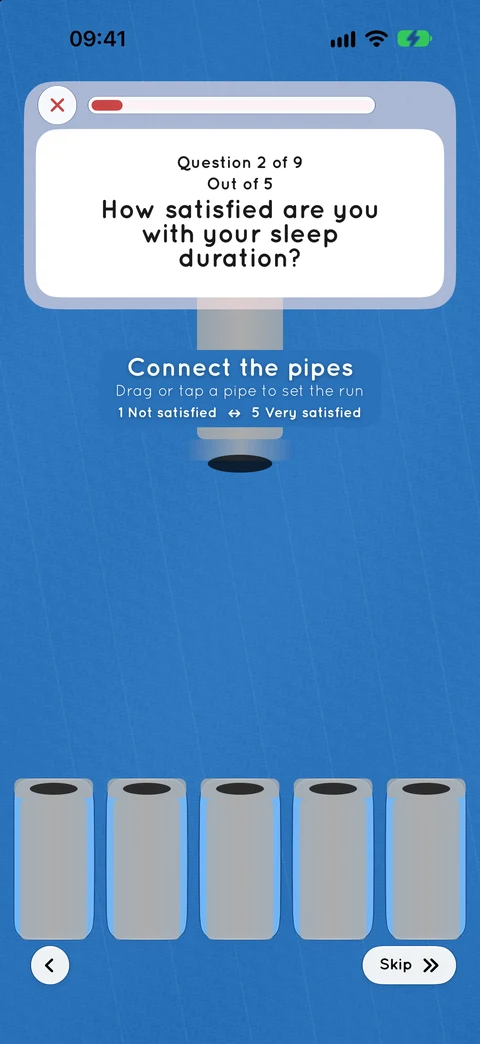
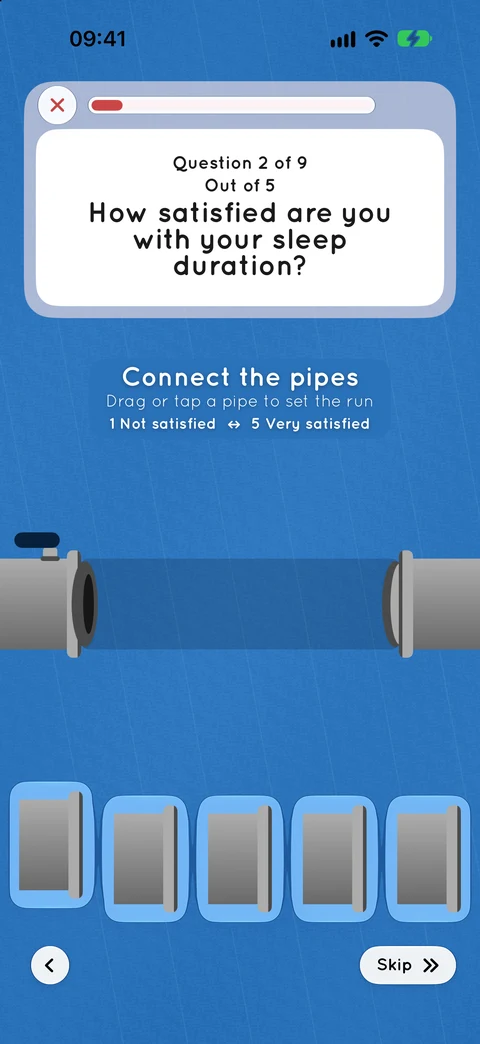
Refresh Calendar and mini-game screenshots from the current app

Changed region(s): [[0.0, 0.7356, 1.0, 0.9502], [0.0312, 0.1533, 0.9688, 0.4598], [0.0, 0.4904, 1.0, 0.6437]]

diff --git a/ASSETS.md b/ASSETS.md
@@ -21,11 +21,13 @@ The original 1170 × 2532 PNGs remain in the app's preserved evidence. The websi
 | Website asset | Capture | SHA-256 of original PNG |
 | --- | --- | --- |
[3 lines of base64/hex data omitted]
 
 The 1170 × 2532 originals are kept outside this repository, in `~/.codex/task-artifacts/neuronook-homepage-20261107/capture/`. They were resized the same way as the October set. The homepage still uses `day-detail*.webp` from October 28, whose neighborhood header shows the night sky, so the page shows both. `neighborhood*.webp`, `calendar*.webp` and `social.png` are the October captures and no longer appear in the homepage markup (`social.png` is still the social preview image).
 
-### Mini-game captures, November 7, 2026
+### Mini-game captures, November 7, 2026 (superseded November 9, 2026)
+
+The five files below were replaced on November 9, 2026; this section records how the earlier set was made. The current set is documented in the next section.
 
 `game-brick*.webp`, `game-pipes*.webp`, `game-foundation*.webp`, `game-plug*.webp` and `game-roof*.webp` feed the homepage mini-game carousel. They are resized copies of screenshots taken from the running app on **November 7, 2026**. Source: `weskcode/NeuroNook` at `799d41f4d4206e0fdadf59230193beb090f1264a` (`feature/cloud-batch-20261106-b2`), a Debug simulator build. Device: iPhone 18 Pro, iOS 27.2, English, light appearance, default text size, status bar fixed at 9:41. The app was launched with `--uitesting --uitesting-screenshots --uitesting-screenshots-skip-today -themeMode light`, which seeds the in-memory mock journal and starts today's check-in from an empty state. Each capture is the first screen a game shows, before any answer. They are questions 1, 2, 3, 4 and 7 of the canonical check-in plan. No app controls, text or device frames were drawn or replaced. The originals are 1206 × 2622 PNGs kept outside this repository, in `~/.codex/task-artifacts/neuronook-games-carousel-20261107/capture/`. They were resized to 480 and 960 pixels wide with Pillow's Lanczos resampling and encoded as WebP at quality 88.
 
@@ -37,7 +39,26 @@ The 1170 × 2532 originals are kept outside this repository, in `~/.codex/task-a
[2 lines of base64/hex data omitted]
 
-The Foundation capture shows the game's current flat house. The app is being changed to use its real house art, so replace `game-foundation*.webp` with a new capture once that fix is merged.
+
+### Refresh, November 9, 2026
+
+`calendar-current*.webp`, `game-brick*.webp`, `game-pipes*.webp`, `game-foundation*.webp`, `game-plug*.webp` and `game-roof*.webp` were replaced with new captures because the app's screens had changed since November 7: the Calendar has a Trends button in its top-right corner and a scrolling grass background, Plumbing now shows a pipe with a gap to fit, Foundation uses the real house art, and the Brick and Plug screens were restyled. Source: `weskcode/NeuroNook` at `a06418b35394ba9cafc6ffb9cffc06924d74b603` (`develop`). The Debug simulator build was the one the release-verification run produced from that revision, not a separate build for these captures. Both devices ran iOS 27.2, English, light appearance, default text size, status bar fixed at 9:41. The captures were driven through `agent-device`, not drawn or edited.
+
+- Calendar: iPhone 17e, 1170 × 2532. Launched with `--uitesting --uitesting-screenshots -themeMode light -selectedAvatar Face-VeryHappy -selectedAvatarOverlay Hat-HardHatYellow`, then opened from Home. Nothing was written to the app's stored settings. The mock journal draws random scores on every launch and fills every day of the month, so the houses differ from the November 7 capture.
+- Games: iPhone 18 Pro, 1206 × 2622. Launched with `--uitesting --uitesting-screenshots --uitesting-screenshots-skip-today -themeMode light`, which starts today's check-in from an empty state. Each capture is the first screen a game shows, before any answer: questions 1, 2, 3, 4 and 7 of the canonical check-in plan, reached with Skip.
+
+| Website asset | Capture | SHA-256 of original PNG |
+| --- | --- | --- |
[6 lines of base64/hex data omitted]
+
+The originals are kept outside this repository, in `~/.codex/task-artifacts/neuronook-site-screenshots-20261109/capture/`. They were resized to 480 and 960 pixels wide with Pillow's Lanczos resampling and encoded as WebP at quality 88, as before.
+
+Not replaced: `neighborhood-day*.webp` (checked against a fresh Home launch; the street scene is unchanged), `day-detail*.webp` (an open pull request, #17, already replaces it), and `social.png` (a designed crop of the October night capture).
 
 `favicon.png` is a resized copy of NeuroNook's existing `Assets.xcassets/AppIcon.appiconset/appicon.png` at app source SHA `cb8f10abd7b33488d07da7bfbab413fab77ac974`. `apple-touch-icon.png` is the same icon resized to 180 × 180 with `sips -z 180 180`.
 
